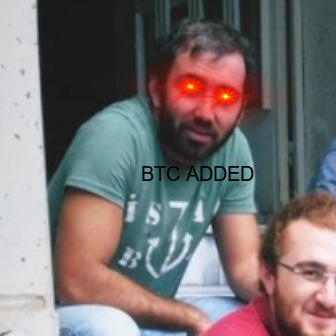
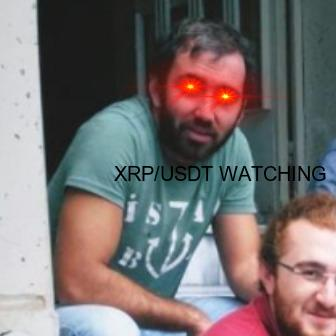
/watch symbol /watchlist etc. telegram keyboard

Changed region(s): [[0.3274, 0.4762, 0.9821, 0.5655]]

diff --git a/notifications/services/telegram/ITelegram.py b/notifications/services/telegram/ITelegram.py
@@ -2,21 +2,24 @@
 Telegram Notification Service
 
 """
+import json
+
 import telegram
+from django_celery_beat.models import IntervalSchedule, PeriodicTask
 from telegram.ext import Updater, CommandHandler
 
-from notifications.models.models import TelegramNotification
+from notifications.models.models import TelegramActive
 from notifications.services.image.manipulator import ImageManipulator
-from price.models.models import CryptoAsset, WatchCryptoAsset
+from notifications.services.telegram.singleton import Singleton
 
 
-class TelegramDataService:
+class TelegramDataService(metaclass=Singleton):
     bot = None
 
     def __init__(self, bot=None):
-        self.bot = bot
-        if self.bot is None:
-            self.bot = self.get_system_bot(False)
+        print("Initializing Telegram Bot")
+
+        self.bot = self.get_system_bot(add_default=False) if bot is None else bot
 
         self.updater = self.set_updater()
         self.dispatcher = self.updater.dispatcher
@@ -28,6 +31,9 @@ class TelegramDataService:
         self.updater.start_polling()
 
     def init_settings(self):
+        # keyboard test
+
+
         # start
         start_handler = CommandHandler('start', self.start)
         self.dispatcher.add_handler(start_handler)
@@ -36,43 +42,66 @@ class TelegramDataService:
         watch_handler = CommandHandler('watch', self.watch)
         self.dispatcher.add_handler(watch_handler)
 
+        # watch list
+        watch_list_handler = CommandHandler('watchlist', self.watch_list)
+        self.dispatcher.add_handler(watch_list_handler)
+
         # unknown
         # unknown_handler = CommandHandler('', self.unknown)
         # self.dispatcher.add_handler(MessageHandler([Filters.command], self.unknown))
 
-        # milyem makas
-        milyem_handler = CommandHandler('add_milyem', self.add_milyem)
-        self.dispatcher.add_handler(milyem_handler)
+    stringList = {"Name": "John", "Language": "Python", "API": "pyTelegramBotAPI"}
+    crossIcon = u"\u274C"
+
+    def send_msg(self, chat_id, msg):
+        self.bot.send_message(chat_id, msg)
+
+    @staticmethod
+    def watch_list(update, context):
+        user = update.effective_chat.username
+        tasks = PeriodicTask.objects.filter(name__startswith=user).values('name')
+
+        msg = list(tasks)
+        msg = "There is no active task for you :(" if not msg else msg
+        update.message.reply_text(msg)
 
     @staticmethod
     def watch(update, context):
-        context.bot.send_message(chat_id=update.effective_chat.id, text='Watcher !')
+        user = update.effective_chat.username
+        try:
+            symbol = context.args[0]
+
+            generated_funny = ImageManipulator.generate_funny_crypto(f"{symbol} WATCHING ")
+
+            schedule, created = IntervalSchedule.objects.get_or_create(
+                every=5,
+                period=IntervalSchedule.SECONDS
+            )
+            PeriodicTask.objects.update_or_create(
+                interval=schedule,
+                name=f'{user}_watcher_{symbol}_5s',
+                task='price.services.analyzer.ovhl_htf',
+                kwargs=json.dumps({
+                    'symbol': symbol
+                })
+            )
+
+            update.message.reply_photo(
+                open(generated_funny, 'rb')
+            )
+        except IndexError:
+            update.message.reply_text('Are you sure you add your symbol ? ex. BTC/USDT, ETH/USDT etc.')
 
     @staticmethod
     def start(update, context):
+        user = update.effective_chat.username
+        TelegramActive.objects.update_or_create(username=user, chat_id=update.effective_chat.id)
         context.bot.send_message(chat_id=update.effective_chat.id, text='Hi! My name is NPC Dumb Bot. '
                                                                         '@Kuttamuwa created me !')
 
     @staticmethod
     def unknown(update, context):
         context.bot.send_message(chat_id=update.effective_chat.id, text='Ne diyosun amcık')
-
-    @staticmethod
-    def add_milyem(update, context):
-        user = update.effective_chat.username
-
-        symbol = context.args[0]
-        asset = CryptoAsset.objects.get(symbol=symbol)
-
-        sarrafiye_milyem = WatchCryptoAsset.objects.get_or_create(
-            asset=asset,
-            creator=user
-        )
-        generated_funny = ImageManipulator.generate_funny_crypto(f"{symbol} ADDED")
-
-        update.message.reply_photo(
-            open(generated_funny, 'rb')
-        )
 
     def set_updater(self):
         updater = Updater(token=self.bot.token, use_context=True)
@@ -81,6 +110,8 @@ class TelegramDataService:
 
     @classmethod
     def get_user_bot(cls, username, add_default=False):
+        from notifications.models.models import TelegramNotification
+
         tele_user = TelegramNotification.objects.get(user__username=username)
         bot = telegram.Bot(token=tele_user.token)
 

diff --git a/price/services/analyzer.py b/price/services/analyzer.py
@@ -4,8 +4,11 @@ import ccxt
 import pandas as pd
 import talib
 from celery import shared_task
-
 # only exchange for now
+from django_celery_beat.models import PeriodicTask
+
+from notifications.controllers.apps import global_telegram_service
+from notifications.models.models import TelegramActive
 
 exchange = ccxt.binance()
 
@@ -55,8 +58,9 @@ def ovhl_htf(symbol):
     :return:
     """
     data_periods = {
-
+        'symbol': symbol
     }
+
     data = exchange.fetch_ohlcv(symbol, limit=365, timeframe="1d")  # daily whole year
     data = asset_df(data)
 
@@ -87,7 +91,22 @@ def ovhl_htf(symbol):
 
     print(f"OVHL of {symbol}: {data_periods}")
 
+    notify_data_periods(data_periods)
+
     return data_periods
+
+
+def notify_data_periods(data_periods):
+    symbol = data_periods['symbol']
+    which_users_following = PeriodicTask.objects.filter(name__contains=symbol).values(
+        'name')  # todo: split: complex filter
+    which_users_following = [i['name'].split('_')[0] for i in which_users_following]
+    print(f"Following users: {which_users_following}")
+
+    which_users_following = TelegramActive.objects.filter(username__in=which_users_following)
+    for usr in which_users_following:
+        global_telegram_service.send_message()
+        print("Notifying {usr}")
 
 
 def ema_ribbons(symbol, timeframe, source='Close', periods=(20, 50, 100, 200, 400)):

diff --git a/notifications/controllers/apps.py b/notifications/controllers/apps.py
@@ -1,12 +1,19 @@
 from django.apps import AppConfig
 
 
+global_telegram_service = None
+
+
 class NotificationsConfig(AppConfig):
     default_auto_field = 'django.db.models.BigAutoField'
     name = 'notifications'
 
     def ready(self):
+        print("Notification is up !")
         from notifications.scripts.telegram_initial import add_telegram_system_bot
+        from notifications.services.telegram.ITelegram import TelegramDataService
 
         # telegram setup
-        # add_telegram_system_bot()
+        add_telegram_system_bot()
+
+        global_telegram_service = TelegramDataService()

diff --git a/notifications/models/models.py b/notifications/models/models.py
@@ -21,3 +21,13 @@ class TelegramNotification(BaseNotification):
     notifier = 'TELEGRAM'
     token = models.CharField(max_length=50, null=False, blank=False, unique=True)
 
+    class Meta:
+        abstract = False
+
+
+class TelegramActive(models.Model):
+    username = models.CharField(max_length=50, verbose_name='User name')
+    chat_id = models.CharField(max_length=50)
+
+    class Meta:
+        db_table = 'TelegramActive'

diff --git a/notifications/services/telegram/singleton.py b/notifications/services/telegram/singleton.py
@@ -1,0 +1,7 @@
+class Singleton(type):
+    _instances = {}
+
+    def __call__(cls, *args, **kwargs):
+        if cls not in cls._instances:
+            cls._instances[cls] = super(Singleton, cls).__call__(*args, **kwargs)
+        return cls._instances[cls]
